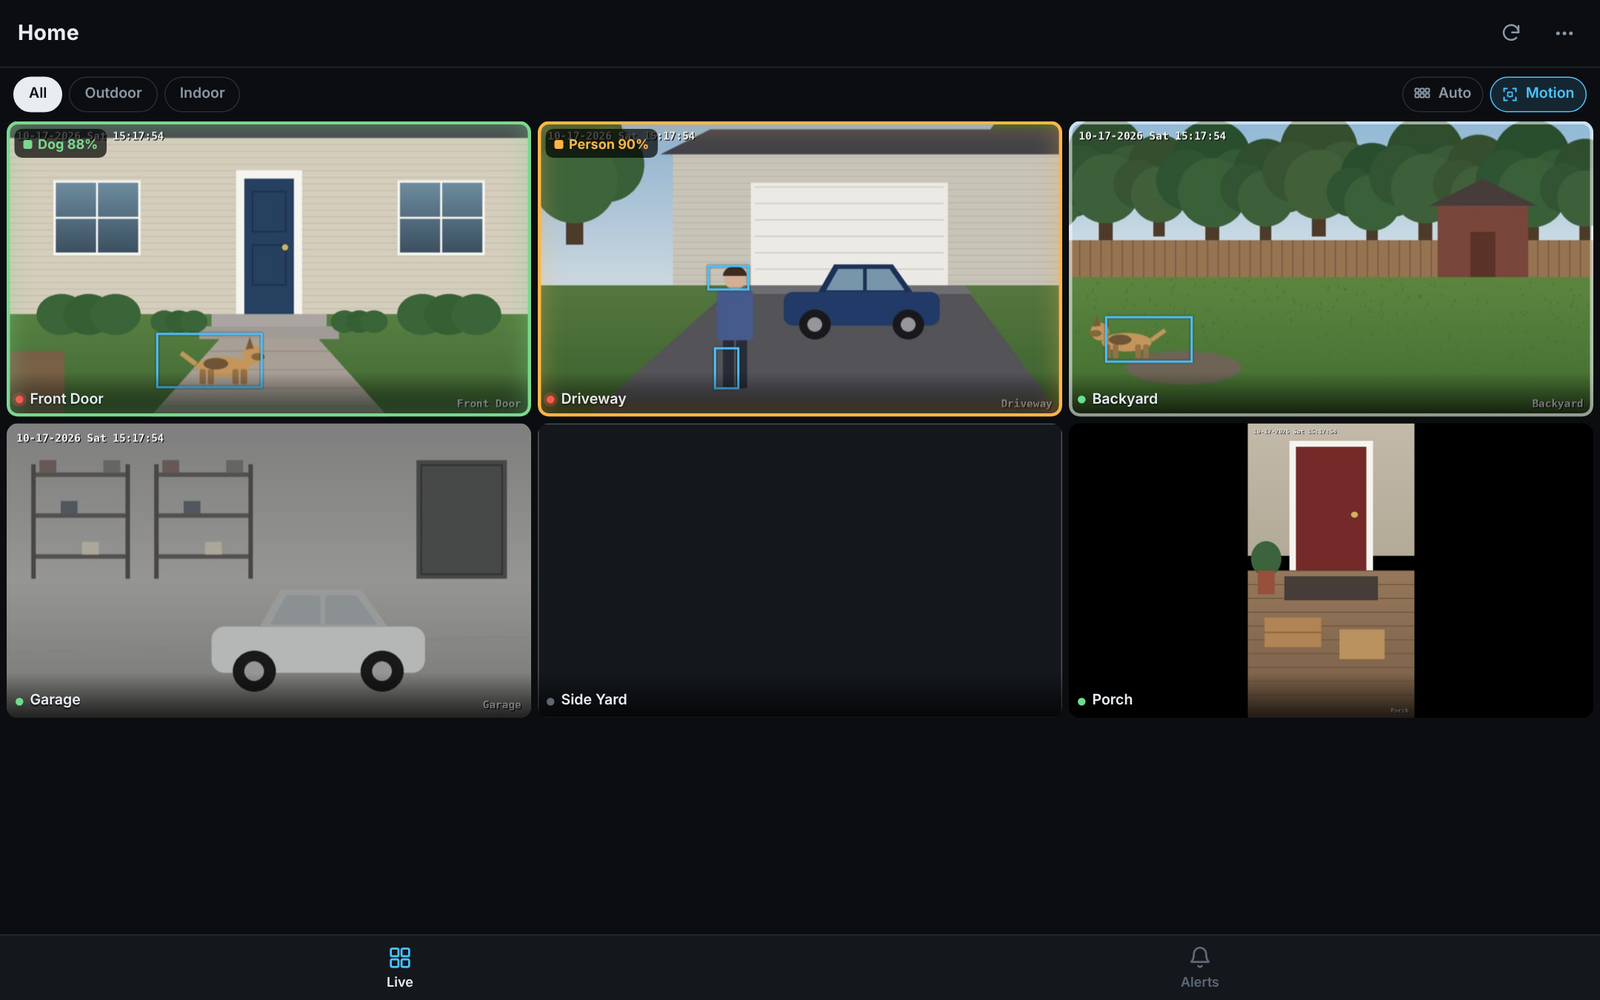
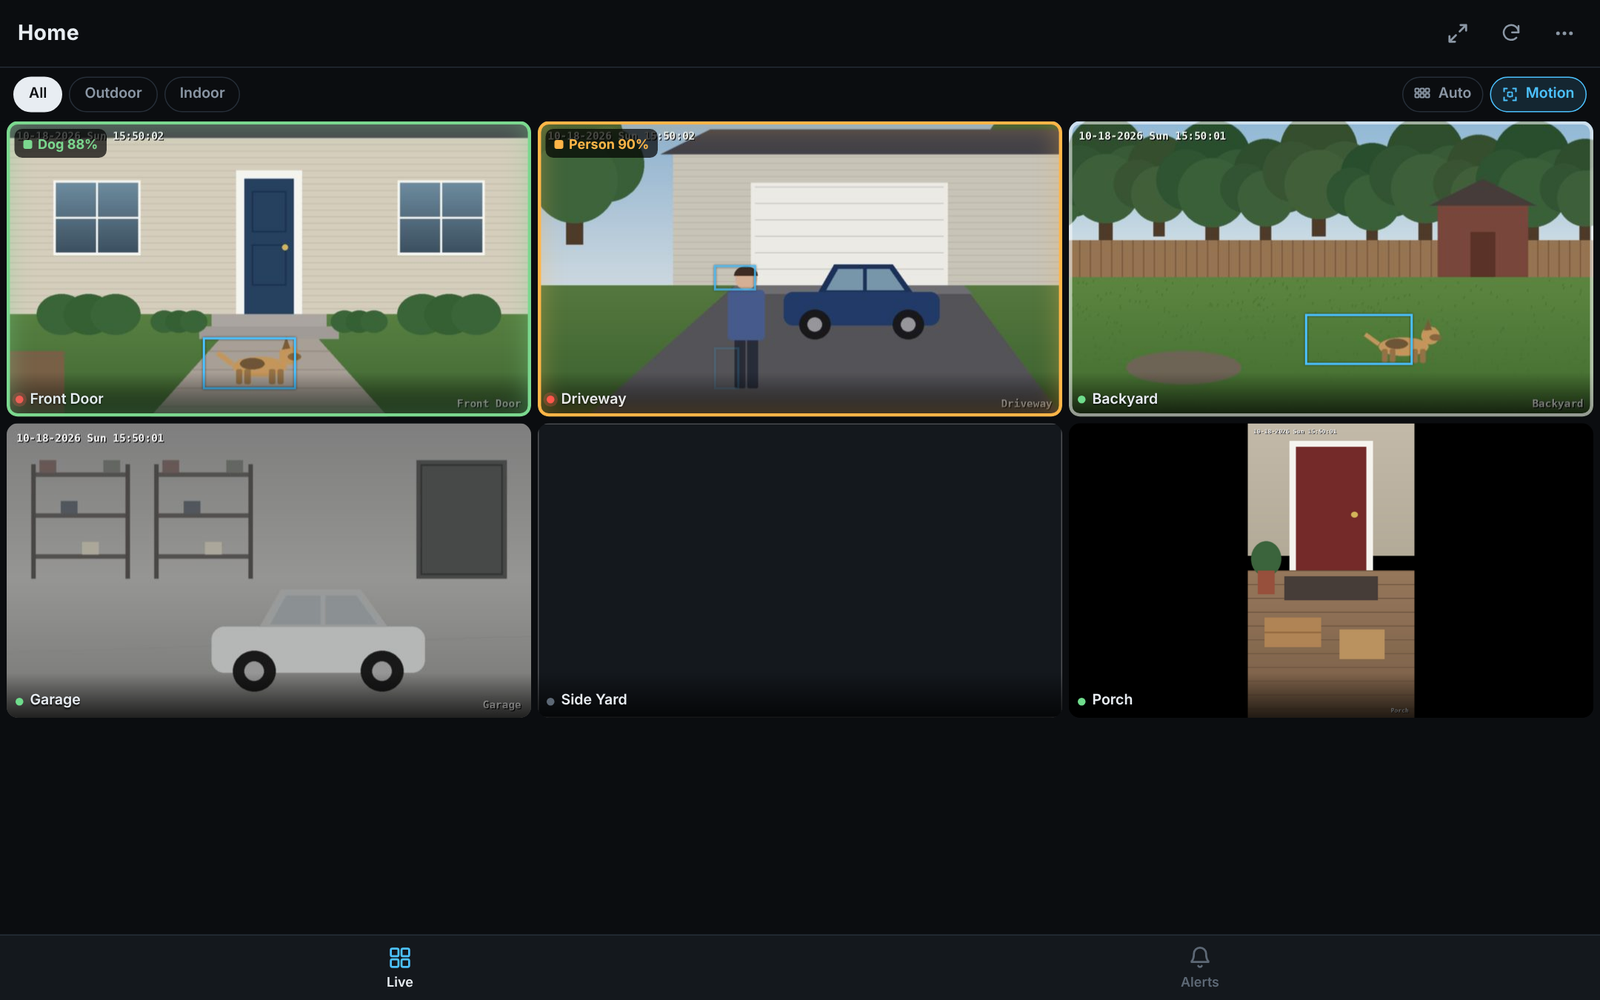
Release 0.12.0
Hidden and disabled cameras left out, combined alert filters,
PTZ controls, full screen, and a one-row player on desktop.
README screenshots retaken from the demo server.

Claude-Session: https://claude.ai/code/session_01T5ZrvtmFomZ4pfZJka1E5x

diff --git a/www/sightline.htm b/www/sightline.htm
@@ -627,7 +627,7 @@ body.isfs #viewer.hideui{cursor:none}
 'use strict';
 /* Values filled in by the Blue Iris web server when it serves this .htm file */
 const INJECTED_SESSION = "%%SESSION%%";
-const APP = { name: 'Sightline', version: '0.12.0-dev' };   // bump the version with every change you copy to the www folder
+const APP = { name: 'Sightline', version: '0.12.0' };   // bump the version with every change you copy to the www folder
 const INJECTED_SYSNAME = "%%SYSNAME%%";
 /* Note: never write two percent signs together anywhere else in this file \u2014 Blue Iris treats the
    text between them as a placeholder and blanks it out when serving the page. */

diff --git a/README.md b/README.md
@@ -52,7 +52,7 @@ It's built for the two things you do most: **glancing at your cameras** and **fi
 ### Player
 - **Smooth video with audio**, both live and recorded. It falls back to still frames on browsers that can't play the stream.
 - **A scrubbable timeline** with colored alert markers and zoom levels from 2 minutes to 48 hours. Longer views mark each midnight with the day's name.
-- **Quick controls:** previous / next alert, ±10 seconds, playback up to 16× speed, and a one-tap jump to live.
+- **Quick controls:** previous / next alert, ±10 seconds, playback up to 16× speed, and a one-tap jump to live. On a computer they fit in one row under a slim timeline, leaving more room for the video.
 - **Swipe between cameras.**
 - **Full screen** for the player or the whole camera grid (handy on a wall display). The player's controls float over the picture and fade out while you watch. Not available on iPhone, where Safari doesn't support it.
 - **Digital zoom up to 8×:** pinch or use the mouse wheel, then drag to pan. In Auto quality, Sightline asks Blue Iris for a sharper picture while you're zoomed in.
@@ -205,7 +205,7 @@ Sightline is deliberately simple: **one HTML file with inline CSS and JavaScript
 
 Small fixes bump the last number (0.12.1), new features the middle one (0.13.0).
 
-**Blue Iris API used:** the JSON API (`login`, `camlist`, `alertlist`, `timeline`, `status`, `logout`), plus `/image/`, `/thumbs/`, `/file/clips/`, `/time/` and `/video/` for pictures and streams.
+**Blue Iris API used:** the JSON API (`login`, `camlist`, `alertlist`, `timeline`, `status`, `ptz`, `logout`), plus `/image/`, `/thumbs/`, `/file/clips/`, `/time/` and `/video/` for pictures and streams.
 
 ## Credits and license
 

diff --git a/CHANGELOG.md b/CHANGELOG.md
@@ -2,7 +2,7 @@
 
 All notable changes to Sightline for Blue Iris. Released versions match what **Settings → About** shows; a version ending in `-dev` is a work-in-progress copy from `main`.
 
-## Unreleased (next: 0.12.0)
+## 0.12.0 — 2026-10-18
 
 - **Hidden and disabled cameras are left out.** Cameras marked Hidden in Blue Iris, and disabled cameras, no longer appear in the Live grid, the alert list, alert-label counts or the camera picker. New setting: **Settings → Live view → Show hidden cameras** (off by default). Disabled cameras are never shown.
 - **Combine alert filters.** A click or tap still shows just that filter. **Shift + click**, **Ctrl + click** (⌘ + click on Mac) or a **long-press** on touch screens adds or removes a filter, so you can show, for example, Dogs + People together (alerts matching any selected filter). Tap All to clear.
